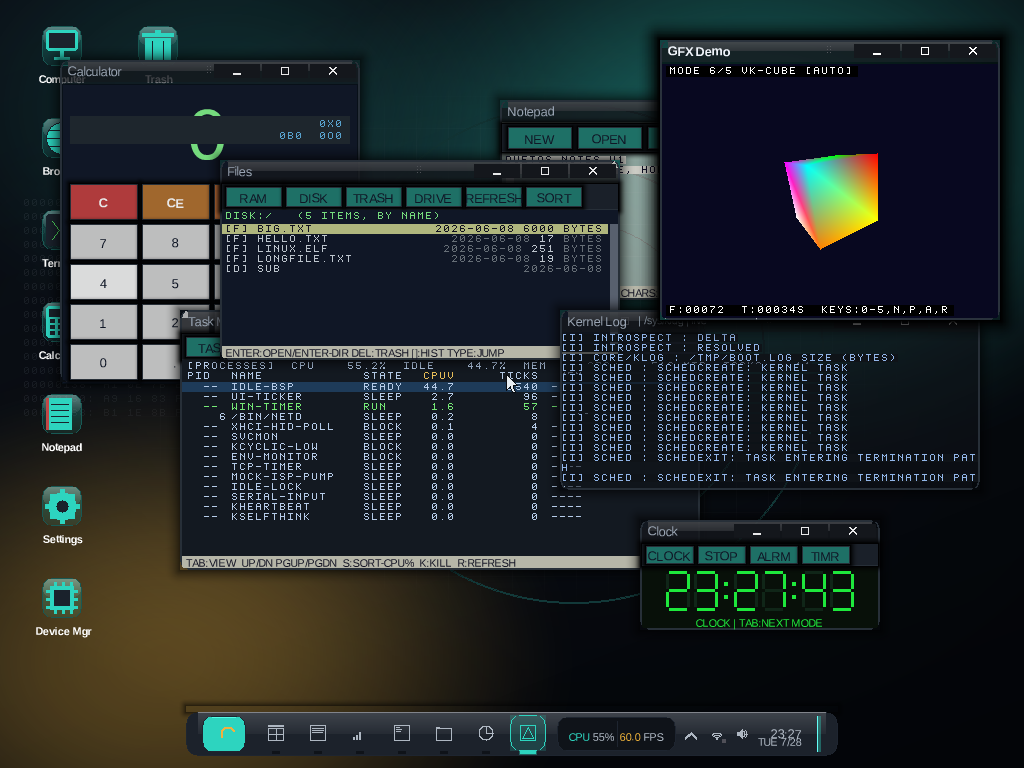
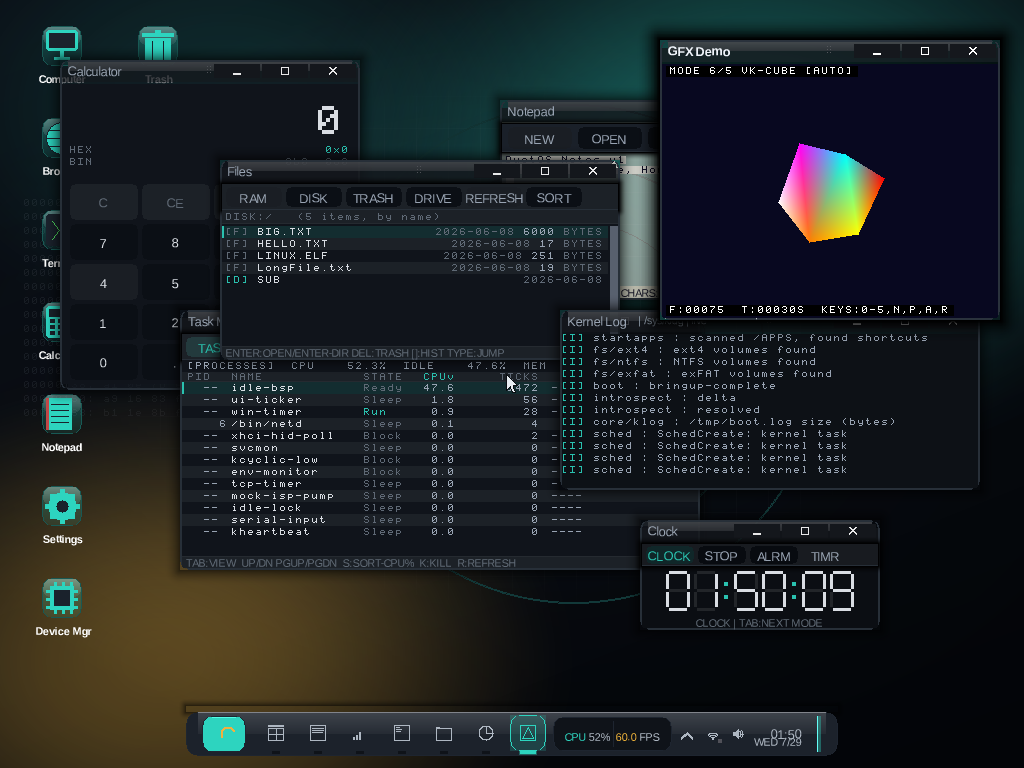
screenshots + wiki: capture the Aurora app interiors
Regenerates the two Duet-family hero shots from grub entry 19
(demo-windows=1) so docs/screenshots/ shows the restyled interiors
rather than the pre-restyle saturated ones.

Documents the app-interior palette, the AppButton default-chip
resolution and the ROM-font lowercase work on the Compositor page,
and logs two decisions: why the Aurora interior tokens are opt-in per
palette rather than a global literal replacement, and why the font
grew lowercase glyphs instead of moving app content onto the
proportional TTF chrome path.

diff --git a/wiki/subsystems/Compositor.md b/wiki/subsystems/Compositor.md
@@ -565,6 +565,56 @@ unchanged.
    `glass_alpha` of 0 or 255, is a silent opt-in: the backdrop would
    paint both blobs in one hue and the glass would composite opaque.
 
+### App interiors — `app_widgets/app_palette.{h,cpp}`
+
+The shell chrome speaking Aurora was not enough: every in-kernel app
+baked its own saturated literals (a red calculator key, cyan file-list
+headers, green-on-black process rows), so a desktop screenshot read as
+"same desktop, different applications". `AppPaletteMake` is the one
+place the design's interior tokens (`--ink` / `--ink-2` / `--ink-3`,
+`--recess`, `--glass-3`, `--line`, the accent selection tint) become
+concrete `0x00RRGGBB`.
+
+Two properties keep it honest:
+
+- **Opt-in.** `AppPalette::aurora` mirrors the theme's
+  `aurora_wallpaper`, so it is false for exactly the palettes the
+  self-test above already pins as flat. Each restyled call site picks
+  `aurora ? pal.<token> : <its historical literal>`, which is why
+  Classic / Slate10 / Amber / DuetClassic / HighContrast still paint
+  what they painted before the module existed. Riding the existing
+  opt-in rather than a fresh theme-id whitelist is deliberate — a
+  whitelist rots the next time a palette lands.
+- **Relative to the surface.** The framebuffer has no per-pixel alpha
+  and `FramebufferDrawString` stamps an opaque cell behind every
+  glyph, so a zebra row cannot be a live blend. `AppPaletteFor(body)`
+  resolves every token against the app's own client fill — and, when
+  the theme publishes `glass_alpha`, first flattens that fill over
+  `desktop_bg` so the app's opaque interior seams into its own glass
+  chrome instead of stamping a darker patch inside it. The ink ramp
+  inverts when the surface is light (Notes' cream paper, the whole
+  DuetLight family).
+
+Math is constexpr and kernel-free; `tests/host/test_app_palette.cpp`
+pins the ramp ordering, the light-mode flip and the single-accent
+collapse without a boot.
+
+`AppButton` resolves the documented `bg_rgb == 0` "theme default"
+sentinel through the same palette: a `--recess` chip with muted ink
+under Aurora, the historical role-title hue under the flat palettes.
+That is what quiets the app toolbars that never opted in individually.
+
+### Bitmap font lowercase
+
+`Font8x8Lookup` used to fold `a..z` onto the uppercase glyphs. Every
+app interior renders its content through that font, so the fold turned
+every file name, process name and log line into shouty all-caps — the
+loudest remaining difference from a reference that sets all of it
+mixed-case. `font8x8.cpp` now carries real 5 × 7 lowercase shapes with
+ascenders (`b d f h k l t`) and descenders (`g j p q y`). The cell and
+the 8-px advance are unchanged, so every column layout derived from
+them is untouched.
+
 ## Chrome Tactility (Pass A)
 
 The chrome tactility lift (Pass A of a 4-pass UX initiative) adds

diff --git a/wiki/reference/Design-Decisions.md b/wiki/reference/Design-Decisions.md
@@ -13197,3 +13197,38 @@ markers for its richest input. Three discovery layers were added (runtime
   (`bochs_vbe`, `virtio_gpu`) — those must render "not applicable". A
   real number requires a periodic sampler, and none of it is verifiable
   under QEMU, which models no GPU.
+### DD — Aurora app interiors are opt-in per palette, not a global restyle
+
+- **Context:** the app interiors (`kernel/apps/*`) each carried their
+  own saturated RGB literals. Routing them through the Aurora tokens is
+  what the design asks for, but the flat palettes — Classic, Slate10,
+  Amber, DuetClassic, HighContrast — must keep the look they had.
+- **Decision:** `AppPaletteMake` publishes an `aurora` flag mirroring
+  the theme's existing `aurora_wallpaper` opt-in, and each restyled
+  call site branches `aurora ? token : <its historical literal>`. The
+  historical constants stay in the source next to their Aurora
+  counterpart rather than being deleted.
+- **Rules out:** (a) replacing the literals outright, which would
+  regress five palettes that the theme self-test deliberately keeps
+  flat; (b) deriving "is this Aurora" from a `ThemeId` whitelist —
+  that is the whitelist-incompleteness bug shape, and it would go stale
+  the next time a palette is added.
+- **Also rules out** resolving interior tokens against a fixed dark
+  ground: they are resolved against the app's own client fill, so a
+  light client (Notes' cream paper, the DuetLight family) inverts the
+  ink ramp instead of painting dark-on-dark.
+
+### DD — the 8x8 ROM font carries real lowercase
+
+- **Context:** `Font8x8Lookup` folded `a..z` onto the uppercase glyphs
+  with a "grow this table in a follow-up slice" note. Every app
+  interior renders content through that font.
+- **Decision:** ship real 5 x 7 lowercase shapes with ascenders and
+  descenders inside the existing 8 x 8 cell.
+- **Rules out:** treating the fold as permanent and instead moving app
+  content onto the proportional TTF chrome path. That would have been a
+  far larger change — every column in Files and Task Manager is laid
+  out in 8-px cells and hit-tested from the same arithmetic — for a
+  smaller fidelity gain than the glyphs themselves buy.
+- **Scope:** the cell size and the 8-px advance are unchanged, so no
+  column layout, scrollbar metric or hit-test moves.
